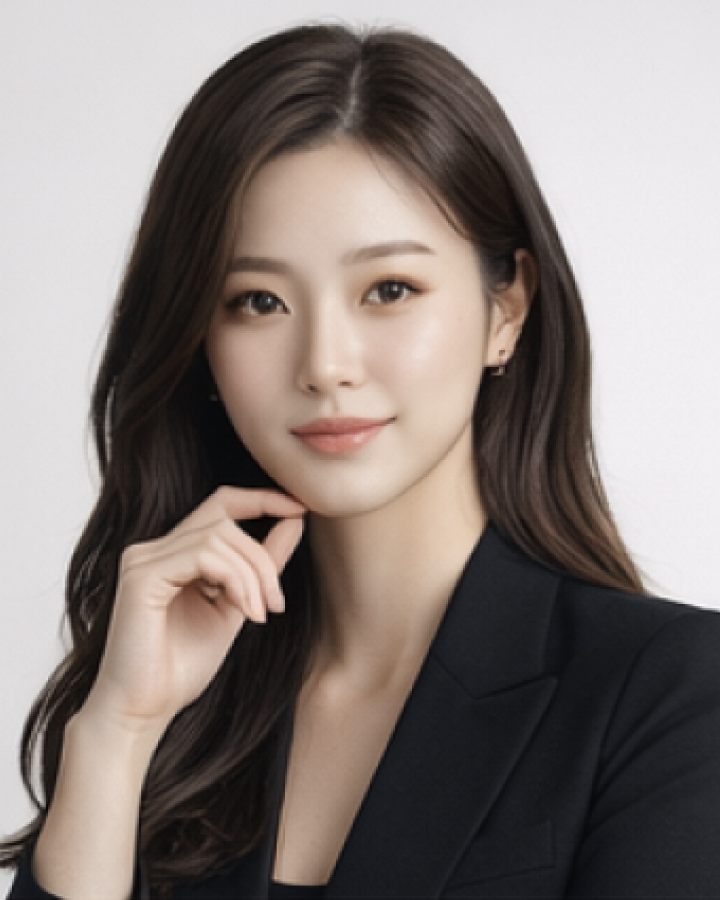
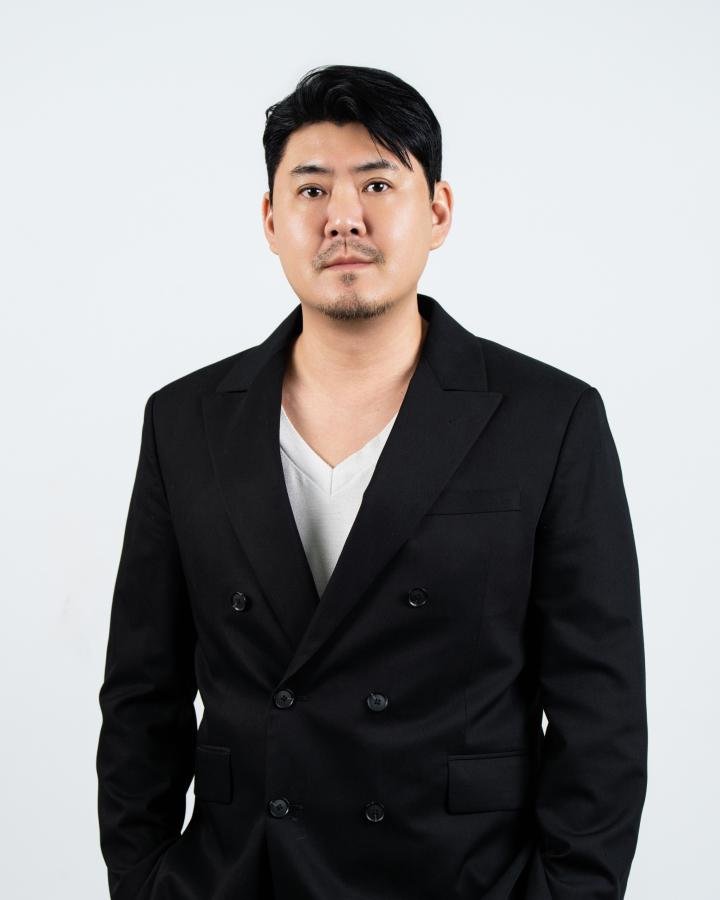
260723-4

diff --git a/src/styles/academy.scss b/src/styles/academy.scss
@@ -68,8 +68,25 @@
       
     }   
   }
-  .ac_2{background-color: #fff; height: 400vh; width: 100%; position: relative;
-    .flex{height: 100vh; position: sticky; top: 0; display: flex; padding: 128px 60px 60px;
+  .ac_2{background-color: #fff; height: 400vh; width: 100%; position: relative; z-index: 1;
+    .ac_2_b_ani{position: absolute; left: 60px; bottom: 40px; width: calc(100% - 120px); display: flex; align-items: center; justify-content: center;
+      &::before{border-bottom: 1px dashed #000; background-color: unset; transform: translateX(-50%); left: 50%; position: absolute; transition-delay: 0.4s;}
+      div{position: absolute; background-color: #000; transition: 0.8s ease all; transform: translate(-50%, -50%); left: calc(50% + 41px); top: 50%; opacity: 0;
+        &:nth-child(1){width: 0; height: 3px;}
+        &:nth-child(2){width:3px; height: 0;}
+      }
+      &.active{
+        div{opacity: 1;
+          &:nth-child(1){width: 100px;}
+          &:nth-child(2){height: 100px;}
+        }
+      }
+
+    }
+    .b-l{position: absolute; left: calc(50% + 40px); width: 1px; top: 40px; height: calc(100% - 80px);
+      &::before{border-right: 1px dashed #000; background-color: unset;}
+    }
+    .flex{height: 100vh; position: sticky; top: 0; display: flex; padding: 128px 60px 40px;
       .left{width: 50%; padding-left: calc(100% / 12);
         .title{position: relative; padding-bottom: 20px; margin-bottom: 60px;}
         .img_w{position: relative; padding: 0 20%;
@@ -103,11 +120,19 @@
       h1{position: absolute;}
       .img_w{position: relative; width: 100%; height: unset; aspect-ratio: 1560 / 900;
         li{position: absolute; cursor: pointer;
-          .txt_w{opacity: 0; transition: ease 0.3s opacity; pointer-events: none; padding: 32px; border-radius: 12px; background-color: #fff; display: block;
+          .txt_w{opacity: 0; transition: ease 0.3s opacity; pointer-events: none; padding: 32px; border-radius: 12px; background-color: #fff; display: block; z-index: 1; pointer-events: none; position: absolute;
+            .edge_w{position: absolute; top: 8px; left: 8px; width: calc(100% - 16px); height: calc(100% - 16px);
+              img{width: 6px; height: 6px; position: absolute;
+                &:nth-child(1){left: 0; top: 0;}
+                &:nth-child(2){right: 0; top: 0; transform: rotate(90deg);}
+                &:nth-child(3){left: 0; bottom: 0; transform: rotate(270deg);}
+                &:nth-child(4){right: 0; bottom: 0; transform: rotate(180deg);}
+              }
+            }
             .top{display: flex; align-items: center; justify-content: space-between;
               h4{display: flex; align-items: flex-end;}
             }
-            .bottom{}
+            .bottom{white-space: nowrap;}
           }
           &:hover {
             .txt_w{opacity: 1;}
@@ -136,24 +161,31 @@
           }*/
           &:nth-child(1) {left: 9.359%; top: 29.222%;
             img {height: 11.667vw;}
+            .txt_w{bottom: 100%; left: 50%;}
           }
           &:nth-child(2) {left: 31.026%; top: 37.444%;
             img {height: 12.244vw;}
+            .txt_w{bottom: 100%; left: 50%;}
           }
           &:nth-child(3) {left: 59.295%; top: 19.778%;
             img {height: 10.897vw;}
+            .txt_w{top: 100%; left: 50%;}
           }
           &:nth-child(4) {left: 87.885%; top: 30.556%;
             img {height: 10.897vw;}
+            .txt_w{bottom: 100%; right: 100%;}
           }
           &:nth-child(5) {left: 16.731%; top: 62.778%;
             img {height: 11.218vw;}
+            .txt_w{top: 00%; left: 120%;}
           }
           &:nth-child(6) {left: 48.205%; top: 72.667%;
             img {height: 11.026vw;}
+            .txt_w{bottom: 110%; left: -10%;}
           }
           &:nth-child(7) {left: 71.346%; top: 52.556%;
             img {height: 10.577vw;}
+            .txt_w{top: 110%; left: 00%;}
           }
 
         }

diff --git a/src/pages/Academy.jsx b/src/pages/Academy.jsx
@@ -305,21 +305,25 @@ function Academy() {
         
       </section>
 
-      <section className="ac_2">
-        <div className="flex">
+      <section className="ac_2 ">
+        
+        <div className="flex ani">
+          <div className="b-l b-delay-6"></div>
+          
           <div className="left">
+            
             <h1 className="title b-b b-2 body-m fw-sb">트렌드와 현장 경험을 연결한 교육을 통해<br/>디자이너의 성장과 경쟁력을 함께 완성합니다.</h1>
             <div className="img_w">
               <div className="number_count"><b>01</b><span>/ 08</span></div>
               <div className="img">
                 <img src="/img/ac_2_1.jpg"/>
-                <img src="/img/about_3_card_2.jpg"/>
-                <img src="/img/about_3_card_3.jpg"/>
-                <img src="/img/about_3_card_1.jpg"/>
-                <img src="/img/ac_1_3_1.jpg"/>
-                <img src="/img/ac_1_3_2.jpg"/>
-                <img src="/img/ac_1_3_3.jpg"/>
-                <img src="/img/ac_1_3_4.jpg"/>
+                <img src="/img/ac_2_2.jpg"/>
+                <img src="/img/ac_2_3.jpg"/>
+                <img src="/img/ac_2_4.jpg"/>
+                <img src="/img/ac_2_5.jpg"/>
+                <img src="/img/ac_2_6.jpg"/>
+                <img src="/img/ac_2_7.jpg"/>
+                <img src="/img/ac_2_8.jpg"/>
               </div>
               <ul>
                 <li>
@@ -384,7 +388,7 @@ function Academy() {
               <span className="head-l">이 수 진</span>
             </li>
             <li>
-              <h4 className="body-l fw-b">Men’s Grooming Expert</h4>
+              <h4 className="body-l fw-b">Men's Grooming Expert</h4>
               <span className="head-l">이 은 혜</span>
             </li>
             <li>
@@ -401,6 +405,7 @@ function Academy() {
             </li>
           </ul>
         </div>
+        <div className="ac_2_b_ani b-b ani b-delay-8"><div></div><div></div></div>
       </section>
       <section className="ac_3">
         <div className="bg_checker"></div>
@@ -410,6 +415,7 @@ function Academy() {
             <li>
               <img src="/img/ac_3_1.png" alt="" />
               <div className="txt_w">
+                <div className="edge_w"><img src="/img/edge.svg"/><img src="/img/edge.svg"/><img src="/img/edge.svg"/><img src="/img/edge.svg"/></div>
                 <div className="top"><h4 className="body-l">1 김 서 윤 <p className="body-s"> 님</p></h4><span className="caption-m txt-gray">2025년도 수료</span></div>
                 <div className="bottom body-s">
                   기술은 물론 고객 상담 방식까지 완전히 달라졌어요.<br/>
@@ -421,6 +427,7 @@ function Academy() {
             <li>
               <img src="/img/ac_3_2.png" alt="" />
               <div className="txt_w">
+                <div className="edge_w"><img src="/img/edge.svg"/><img src="/img/edge.svg"/><img src="/img/edge.svg"/><img src="/img/edge.svg"/></div>
                 <div className="top"><h4 className="body-l">2 김 서 윤 <p className="body-s"> 님</p></h4><span className="caption-m txt-gray">2025년도 수료</span></div>
                 <div className="bottom body-s">
                   기술은 물론 고객 상담 방식까지 완전히 달라졌어요.<br/>
@@ -432,6 +439,7 @@ function Academy() {
             <li>
               <img src="/img/ac_3_3.png" alt="" />
               <div className="txt_w">
+                <div className="edge_w"><img src="/img/edge.svg"/><img src="/img/edge.svg"/><img src="/img/edge.svg"/><img src="/img/edge.svg"/></div>
                 <div className="top"><h4 className="body-l">3 김 서 윤 <p className="body-s"> 님</p></h4><span className="caption-m txt-gray">2025년도 수료</span></div>
                 <div className="bottom body-s">
                   기술은 물론 고객 상담 방식까지 완전히 달라졌어요.<br/>
@@ -443,6 +451,7 @@ function Academy() {
             <li>
               <img src="/img/ac_3_4.png" alt="" />
               <div className="txt_w">
+                <div className="edge_w"><img src="/img/edge.svg"/><img src="/img/edge.svg"/><img src="/img/edge.svg"/><img src="/img/edge.svg"/></div>
                 <div className="top"><h4 className="body-l">4 김 서 윤 <p className="body-s"> 님</p></h4><span className="caption-m txt-gray">2025년도 수료</span></div>
                 <div className="bottom body-s">
                   기술은 물론 고객 상담 방식까지 완전히 달라졌어요.<br/>
@@ -454,6 +463,7 @@ function Academy() {
             <li>
               <img src="/img/ac_3_5.png" alt="" />
               <div className="txt_w">
+                <div className="edge_w"><img src="/img/edge.svg"/><img src="/img/edge.svg"/><img src="/img/edge.svg"/><img src="/img/edge.svg"/></div>
                 <div className="top"><h4 className="body-l">5 김 서 윤 <p className="body-s"> 님</p></h4><span className="caption-m txt-gray">2025년도 수료</span></div>
                 <div className="bottom body-s">
                   기술은 물론 고객 상담 방식까지 완전히 달라졌어요.<br/>
@@ -465,6 +475,7 @@ function Academy() {
             <li>
               <img src="/img/ac_3_6.png" alt="" />
               <div className="txt_w">
+                <div className="edge_w"><img src="/img/edge.svg"/><img src="/img/edge.svg"/><img src="/img/edge.svg"/><img src="/img/edge.svg"/></div>
                 <div className="top"><h4 className="body-l">6 김 서 윤 <p className="body-s"> 님</p></h4><span className="caption-m txt-gray">2025년도 수료</span></div>
                 <div className="bottom body-s">
                   기술은 물론 고객 상담 방식까지 완전히 달라졌어요.<br/>
@@ -476,6 +487,7 @@ function Academy() {
             <li>
               <img src="/img/ac_3_7.png" alt="" />
               <div className="txt_w">
+                <div className="edge_w"><img src="/img/edge.svg"/><img src="/img/edge.svg"/><img src="/img/edge.svg"/><img src="/img/edge.svg"/></div>
                 <div className="top"><h4 className="body-l">7 김 서 윤 <p className="body-s"> 님</p></h4><span className="caption-m txt-gray">2025년도 수료</span></div>
                 <div className="bottom body-s">
                   기술은 물론 고객 상담 방식까지 완전히 달라졌어요.<br/>